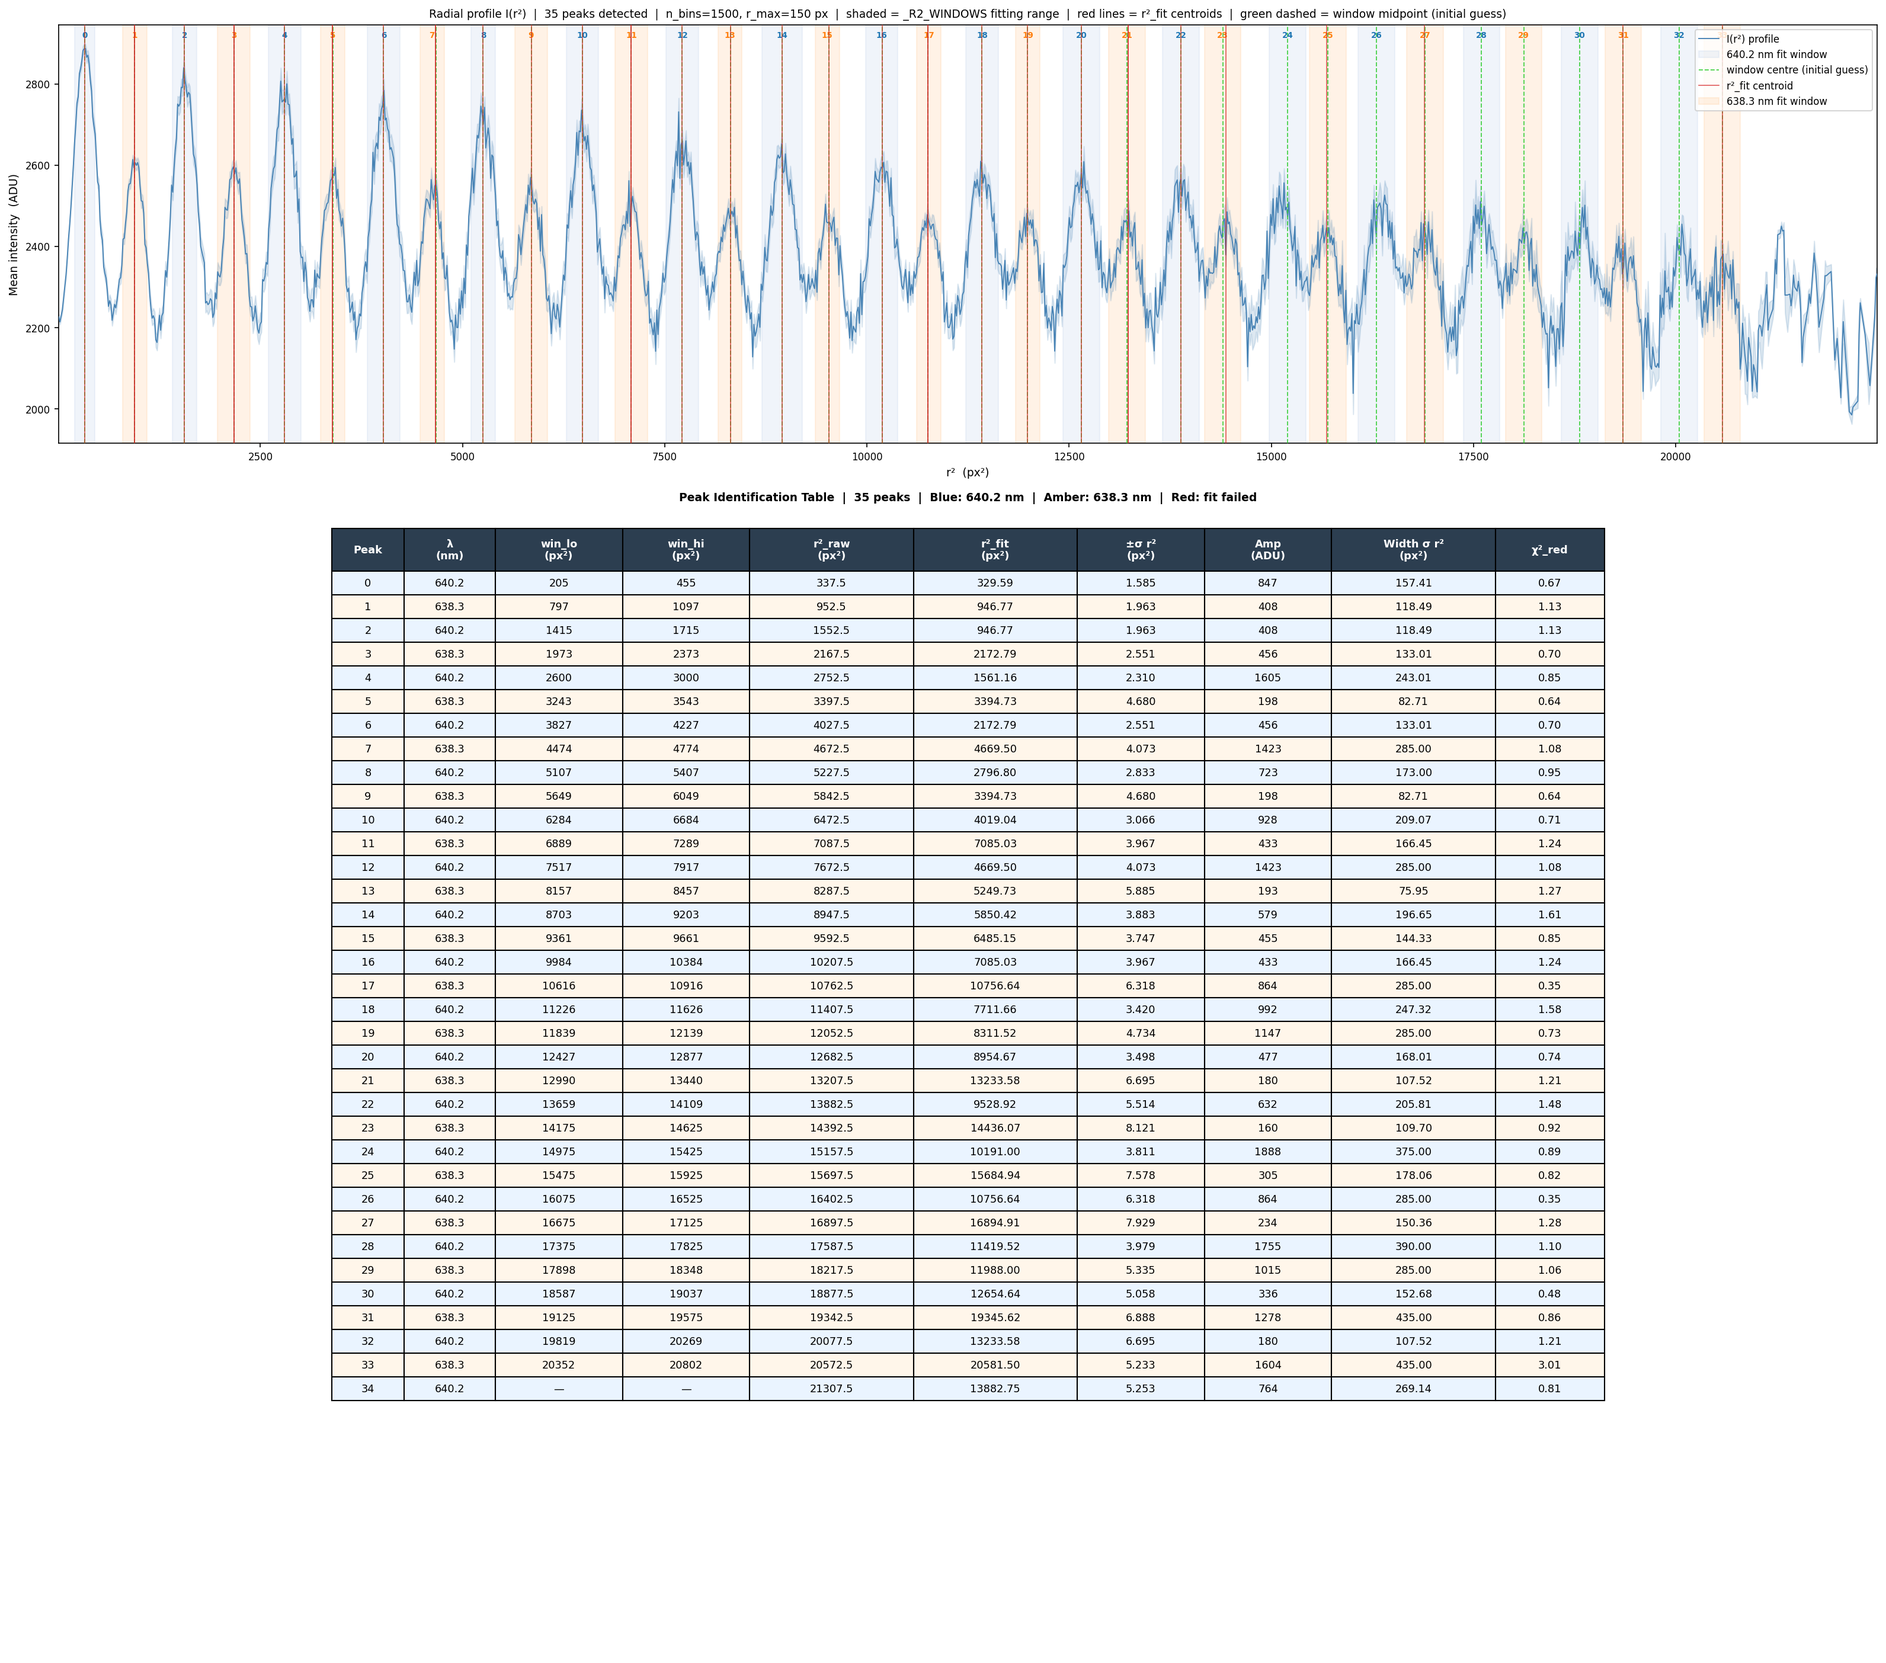
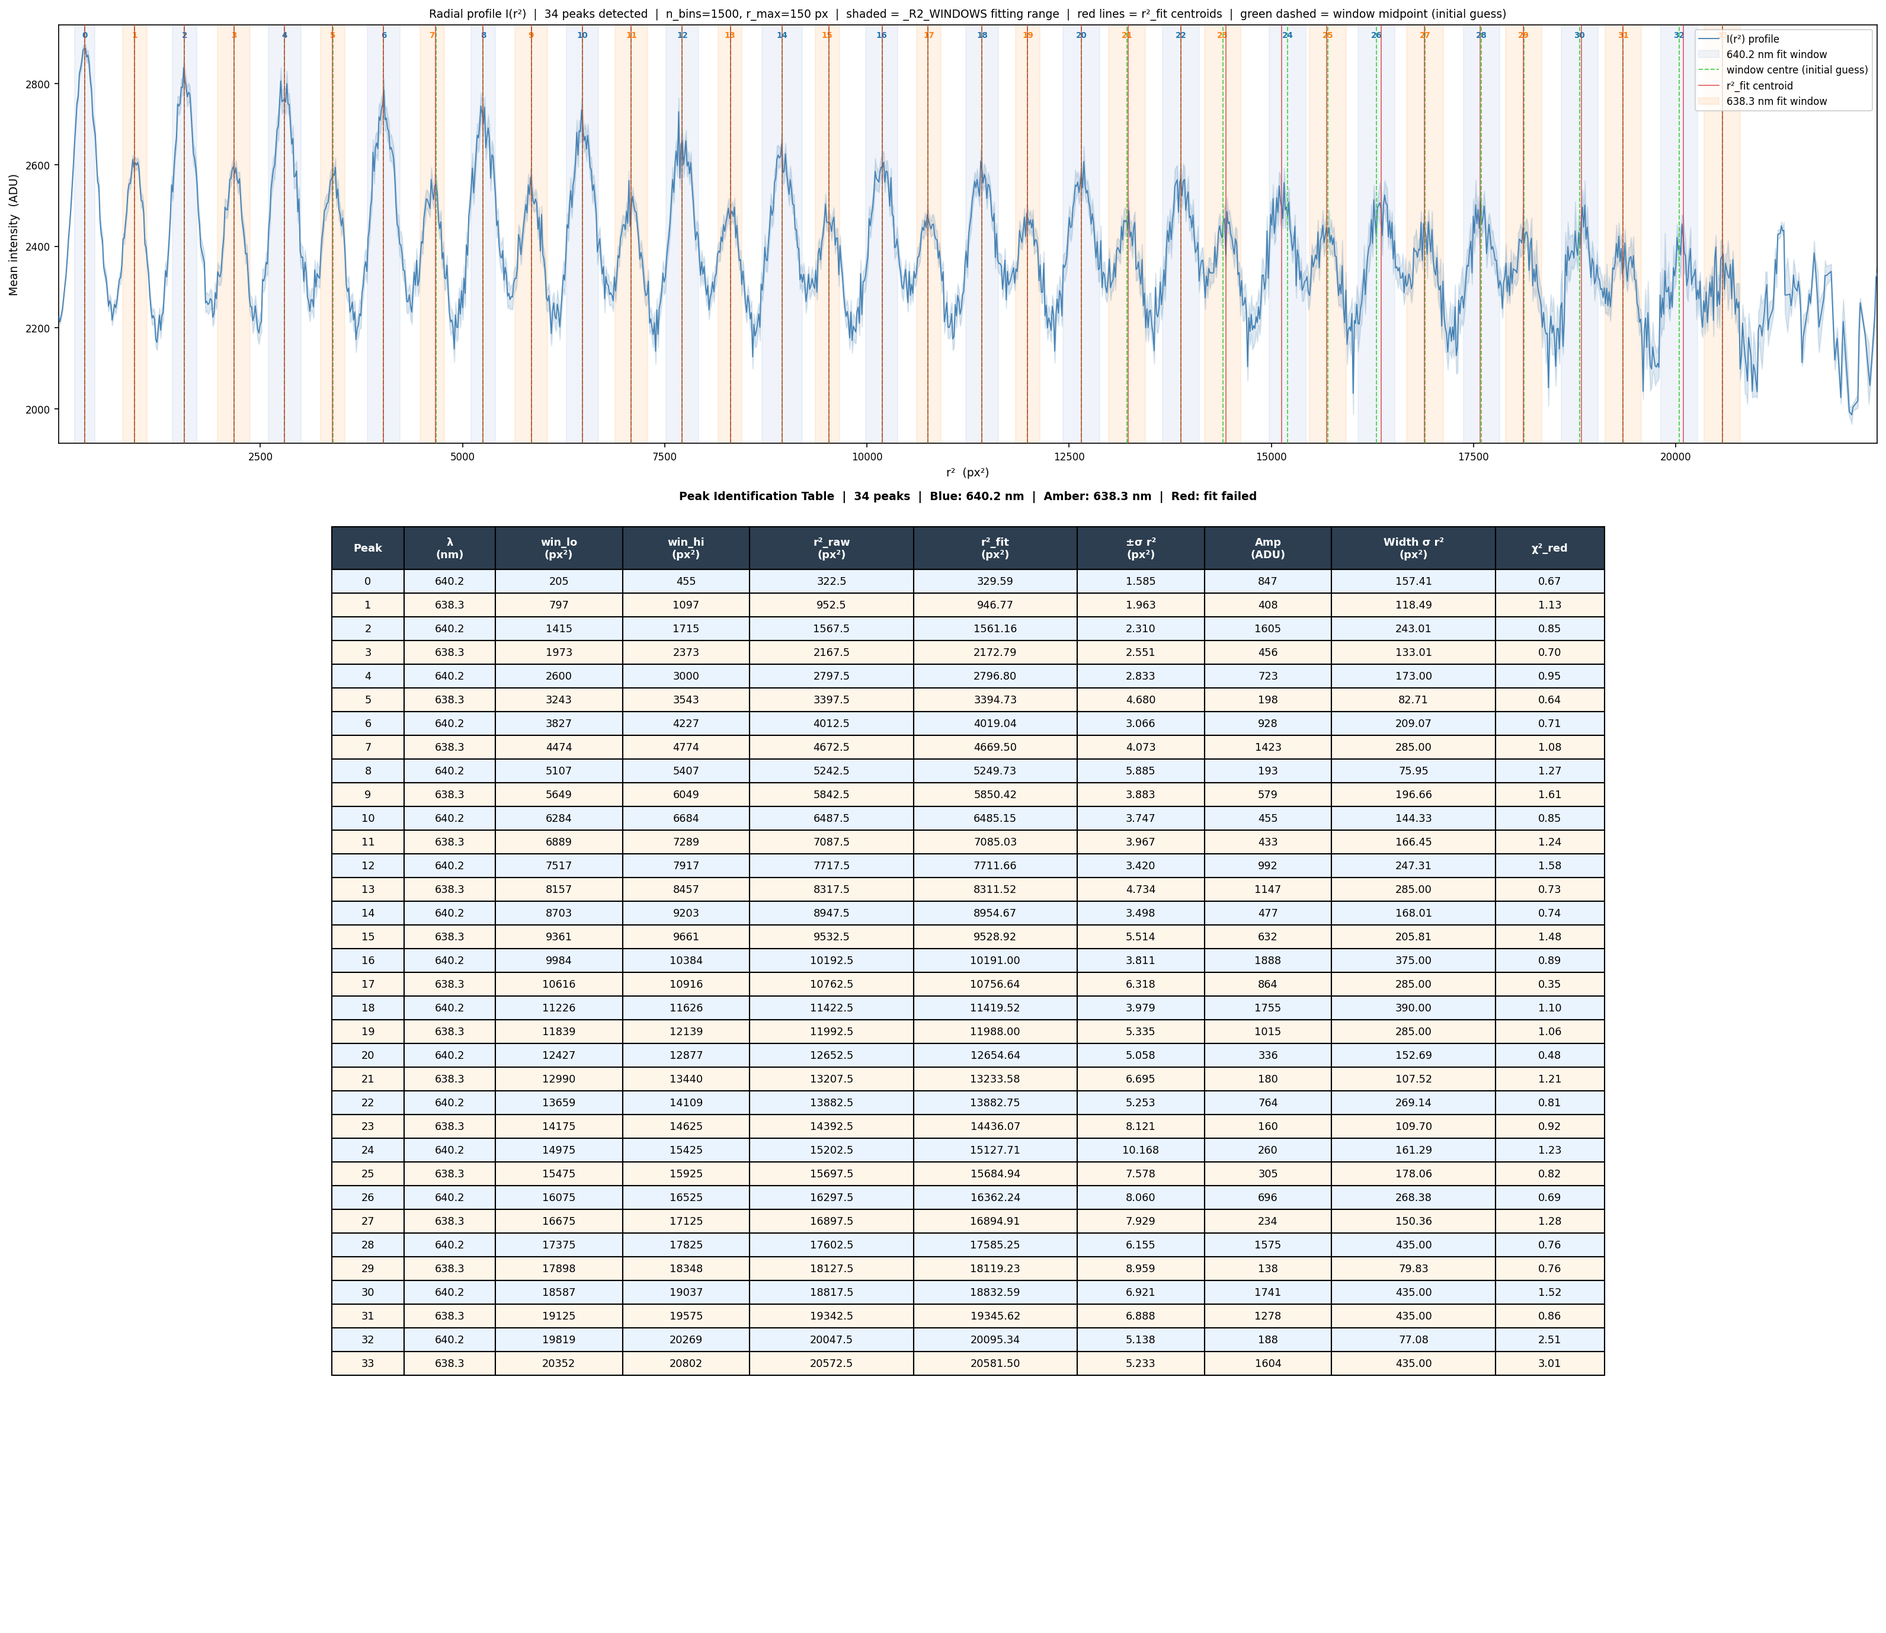
suppress subtitles

diff --git a/src/fpi/fpi_cal_lib.py b/src/fpi/fpi_cal_lib.py
@@ -1125,85 +1125,59 @@ def _find_and_fit_peaks(
 
 
 def _find_and_fit_peaks_r2(
-    r_grid:          np.ndarray,
-    r2_grid:         np.ndarray,
-    profile:         np.ndarray,
-    sigma_profile:   np.ndarray,
-    masked:          np.ndarray,
-    distance:        int   = 5,
-    prominence:      float = 100.0,
-    fit_half_window: int   = 6,
-    min_sep_px:      float = 3.0,
-) -> list[PeakFitR2]:
+    profile:        np.ndarray,
+    r_grid:         np.ndarray,
+    r2_grid:        np.ndarray,
+    sigma_profile:  np.ndarray,
+    masked:         np.ndarray,
+    distance:       int   = 5,
+    prominence:     float = 50.0,
+    fit_half_window: int  = 80,
+    min_sep_px:     float = 5.0,
+) -> list["PeakFitR2"]:
     """
-    Locate peaks in the radial profile and fit a Gaussian to each in r² space.
+    Fit every window defined in _R2_WINDOWS directly, using the 3-tuple
+    centre hint (or window midpoint) as the starting position.
 
-    Identical peak detection to _find_and_fit_peaks; differs only in the
-    fitting step, which uses r2_grid as the x-axis.  Fabry-Pérot fringes are
-    expected to be evenly spaced in r², so a Gaussian centroid in r² gives a
-    more physically motivated peak position for calibration.
-
-    Parameters mirror _find_and_fit_peaks.  min_sep_px is in pixels and is
-    converted to safe_distance bins via r_grid spacing.
+    The find_peaks auto-detection step has been removed entirely.  Every
+    entry in _R2_WINDOWS is attempted regardless of local prominence,
+    giving deterministic, user-controlled peak positions.
     """
-    good         = ~masked
-    good_indices = np.where(good)[0]
-    profile_good = profile[good]
-
-    if profile_good.size == 0:
+    if profile.size == 0:
         return []
 
-    # Safe distance from min_sep_px using r_grid (same as r-domain fitting)
-    if good_indices.size > 1:
-        median_dr_px = float(np.median(np.diff(r_grid[good])))
-        if median_dr_px > 0.0:
-            safe_distance = max(1, int(np.floor(min_sep_px / median_dr_px)))
-        else:
-            safe_distance = distance
-            median_dr_px  = 1.0
-    else:
-        safe_distance = distance
-        median_dr_px  = 1.0
-
-    # r² bin spacing for initial guess and bounds scaling
-    if good_indices.size > 1:
+    # r² bin spacing — used for Gaussian fit bounds
+    good = ~masked
+    if good.sum() > 1:
         median_dr2_px2 = float(np.median(np.diff(r2_grid[good])))
         if median_dr2_px2 <= 0.0:
             median_dr2_px2 = 1.0
     else:
         median_dr2_px2 = 1.0
 
-    effective_distance = min(distance, safe_distance)
-    peaks_sub, _ = find_peaks(profile_good, distance=effective_distance, prominence=prominence)
-    all_bin_indices = [int(good_indices[s]) for s in peaks_sub]
-
     results: list[PeakFitR2] = []
-    for peak_pos, (sub_idx, bin_idx) in enumerate(zip(peaks_sub, all_bin_indices)):
-        # HWHM-based asymmetric window
-        valley_L, valley_R = _find_valley_bounds(profile, bin_idx, search_hw=fit_half_window)
-        hwhm_L, hwhm_R    = _measure_hwhm(profile, bin_idx, valley_L, valley_R)
-        hw_L = min(max(6, int(np.round(0.8 * hwhm_L))), fit_half_window)
-        hw_R = min(max(6, int(np.round(0.8 * hwhm_R))), fit_half_window)
 
-        lo      = max(0, bin_idx - hw_L)
-        hi      = min(len(r2_grid) - 1, bin_idx + hw_R)
+    for win_key in sorted(_R2_WINDOWS.keys()):
+        _wk     = _R2_WINDOWS[win_key]
+        r2_lo   = _wk[0];  r2_hi = _wk[-1]
+        # Centre hint: middle of 3-tuple, or midpoint of 2-tuple
+        r2_ctr  = _wk[1] if len(_wk) == 3 else 0.5 * (r2_lo + r2_hi)
 
-        # ── User-specified window overrides (r² domain) ──────────────────────
-        if peak_pos in _R2_WINDOWS:
-            _wn = _R2_WINDOWS[peak_pos]; _r2_lo, _r2_hi = _wn[0], _wn[-1]
-            lo = int(np.searchsorted(r2_grid, _r2_lo, side="left"))
-            hi = int(np.searchsorted(r2_grid, _r2_hi, side="right")) - 1
-            lo = max(0, lo)
-            hi = min(len(r2_grid) - 1, hi)
-        # ── End user-specified overrides ──────────────────────────────────────
+        # Map r² bounds and centre to bin indices
+        lo      = int(np.searchsorted(r2_grid, r2_lo, side='left'))
+        hi      = int(np.searchsorted(r2_grid, r2_hi, side='right')) - 1
+        lo      = max(0, lo)
+        hi      = min(len(r2_grid) - 1, hi)
+        bin_idx = int(np.argmin(np.abs(r2_grid - r2_ctr)))
+        bin_idx = max(lo, min(hi, bin_idx))
 
         win     = np.arange(lo, hi + 1)
         usable  = ~masked[win] & np.isfinite(sigma_profile[win])
         win_use = win[usable]
 
-        # --- Parabolic primary fit ---
+        # ── Parabolic primary fit ─────────────────────────────────────────────
         para_ok    = False
-        para_mu    = float(r2_grid[bin_idx])   # fallback
+        para_mu    = float(r2_grid[bin_idx])
         para_rms   = np.nan
         para_resid = None
 
@@ -1222,7 +1196,7 @@ def _find_and_fit_peaks_r2(
                     coeffs     = np.polyfit(r2_w[mask_top], p_w[mask_top], 2)
                     para_resid = p_w[mask_top] - np.polyval(coeffs, r2_w[mask_top])
 
-        # --- Gaussian fallback ---
+        # ── Gaussian fallback ─────────────────────────────────────────────────
         gauss_ok         = False
         r2_fit_px2       = para_mu
         sigma_r2_fit_px2 = np.nan
@@ -1238,9 +1212,10 @@ def _find_and_fit_peaks_r2(
             B0   = float(np.percentile(p_w, 20))
             A0   = max(float(profile[bin_idx]) - B0, 1.0)
             mu0  = para_mu if para_ok else float(r2_grid[bin_idx])
-            sig0 = max((float(r2_w[-1]) - float(r2_w[0])) / 6.0, median_dr2_px2 * 0.5)
-            p0      = [A0, mu0, sig0, B0]
-            bounds  = (
+            sig0 = max((float(r2_w[-1]) - float(r2_w[0])) / 6.0,
+                       median_dr2_px2 * 0.5)
+            p0     = [A0, mu0, sig0, B0]
+            bounds = (
                 [0.0,    float(r2_w[0]),  0.3 * median_dr2_px2,    -np.inf],
                 [np.inf, float(r2_w[-1]), float(r2_w[-1]) - float(r2_w[0]), np.inf],
             )
@@ -1278,122 +1253,6 @@ def _find_and_fit_peaks_r2(
             width_r2_px2     = width_r2_px2,
             fit_ok           = fit_ok,
             reduced_chi2     = reduced_chi2,
-            para_ok          = para_ok,
-            para_rms         = para_rms,
-            gauss_ok         = gauss_ok,
-        ))
-
-    # ── Forced-fit pass: attempt a fit for every _R2_WINDOWS entry not
-    #    already covered by a find_peaks detection.  This ensures user-
-    #    specified windows (especially weak outer fringes below the global
-    #    prominence threshold) always get a fit attempt.
-    detected_positions = set(r.peak_idx for r in results)
-    already_fitted_windows = set(
-        wk for wk in range(len(results))
-        if wk in _R2_WINDOWS
-    )
-    for win_key in sorted(_R2_WINDOWS.keys()):
-        # Check if this window was covered by a detected peak
-        _wf    = _R2_WINDOWS[win_key]
-        _wf_lo = _wf[0];  _wf_hi = _wf[-1]
-        # Centre hint: 3-tuple middle value, else window midpoint
-        _wf_ctr = _wf[1] if len(_wf) == 3 else 0.5 * (_wf_lo + _wf_hi)
-
-        lo_f = int(np.searchsorted(r2_grid, _wf_lo, side="left"))
-        hi_f = int(np.searchsorted(r2_grid, _wf_hi, side="right")) - 1
-        lo_f = max(0, lo_f)
-        hi_f = min(len(r2_grid) - 1, hi_f)
-
-        # Skip if a detected peak already falls inside this window
-        window_covered = any(
-            lo_f <= r.peak_idx <= hi_f for r in results
-        )
-        if window_covered:
-            continue
-
-        # No detected peak in this window — force a fit using the centre hint
-        _ctr_idx = int(np.argmin(np.abs(r2_grid - _wf_ctr)))
-        bin_idx  = max(lo_f, min(hi_f, _ctr_idx))
-
-        win_f    = np.arange(lo_f, hi_f + 1)
-        usable_f = ~masked[win_f] & np.isfinite(sigma_profile[win_f])
-        win_use  = win_f[usable_f]
-
-        # --- Parabolic primary fit ---
-        para_ok    = False
-        para_mu    = float(r2_grid[bin_idx])
-        para_rms   = np.nan
-        para_resid = None
-
-        if win_use.size >= 4:
-            r2_w  = r2_grid[win_use]
-            p_w   = profile[win_use]
-            sem_w = sigma_profile[win_use]
-            para_mu_raw, para_rms = _parabolic_centroid(r2_w, p_w, top_fraction=0.5)
-            if r2_w[0] <= para_mu_raw <= r2_w[-1]:
-                para_mu = para_mu_raw
-                para_ok = True
-                threshold = np.min(p_w) + 0.5 * (np.max(p_w) - np.min(p_w))
-                mask_top  = p_w >= threshold
-                if mask_top.sum() >= 3:
-                    coeffs     = np.polyfit(r2_w[mask_top], p_w[mask_top], 2)
-                    para_resid = p_w[mask_top] - np.polyval(coeffs, r2_w[mask_top])
-
-        # --- Gaussian fallback ---
-        gauss_ok         = False
-        r2_fit_px2       = para_mu
-        sigma_r2_fit_px2 = np.nan
-        amplitude_adu    = float(profile[bin_idx])
-        width_r2_px2     = np.nan
-        reduced_chi2_f   = np.nan
-
-        if win_use.size >= 4:
-            r2_w  = r2_grid[win_use]
-            p_w   = profile[win_use]
-            sem_w = sigma_profile[win_use]
-            B0   = float(np.percentile(p_w, 20))
-            A0   = max(float(profile[bin_idx]) - B0, 1.0)
-            mu0  = para_mu if para_ok else float(r2_grid[bin_idx])
-            sig0 = max((float(r2_w[-1]) - float(r2_w[0])) / 6.0,
-                       median_dr2_px2 * 0.5)
-            p0     = [A0, mu0, sig0, B0]
-            bounds = (
-                [0.0,    float(r2_w[0]),  0.3 * median_dr2_px2,    -np.inf],
-                [np.inf, float(r2_w[-1]), float(r2_w[-1]) - float(r2_w[0]), np.inf],
-            )
-            try:
-                popt, pcov       = curve_fit(
-                    _gaussian, r2_w, p_w,
-                    p0=p0, sigma=sem_w, absolute_sigma=True,
-                    bounds=bounds, maxfev=5000,
-                )
-                perr             = np.sqrt(np.diag(pcov))
-                sigma_r2_fit_px2 = float(perr[1])
-                amplitude_adu    = float(popt[0])
-                width_r2_px2     = float(abs(popt[2]))
-                n_dof            = len(r2_w) - 4
-                if n_dof > 0:
-                    chi2_f         = float(np.sum(
-                        ((p_w - _gaussian(r2_w, *popt)) / sem_w) ** 2))
-                    reduced_chi2_f = chi2_f / n_dof
-                gauss_ok         = True
-                if not para_ok:
-                    r2_fit_px2   = float(popt[1])
-            except (RuntimeError, ValueError):
-                pass
-
-        fit_ok = para_ok or gauss_ok
-        results.append(PeakFitR2(
-            peak_idx         = bin_idx,
-            r2_raw_px2       = float(r2_grid[bin_idx]),
-            r_raw_px         = float(r_grid[bin_idx]),
-            profile_raw      = float(profile[bin_idx]),
-            r2_fit_px2       = r2_fit_px2,
-            sigma_r2_fit_px2 = sigma_r2_fit_px2,
-            amplitude_adu    = amplitude_adu,
-            width_r2_px2     = width_r2_px2,
-            fit_ok           = fit_ok,
-            reduced_chi2     = reduced_chi2_f,
             para_ok          = para_ok,
             para_rms         = para_rms,
             gauss_ok         = gauss_ok,
@@ -2051,30 +1910,16 @@ def _plot_all_fringe_diagnostics_r2(
                               alpha=0.75, edgecolor="gray"))
 
         # ── Title ────────────────────────────────────────────────────────────
-        # pk_num already set above from _R2_WINDOWS lookup
+        # pk_num set above — title shows peak number and wavelength only
         lam_str = "640.2" if pk_num % 2 == 0 else "638.3"
-        hw_str  = f"[{r2_lo_w:.0f},{r2_hi_w:.0f}]"
         if fit_ok:
-            r_derived = float(np.sqrt(r2_fit)) if r2_fit > 0 else float("nan")
-            chi2_str  = f"{reduced_chi2:.2f}" if np.isfinite(reduced_chi2) else "nan"
-            rms_str   = f"{para_rms:.2f}" if np.isfinite(para_rms) else "nan"
-            tag_para  = f"para ok rms={rms_str}" if para_ok else "para FAIL"
-            tag_gauss = "gauss ok" if gauss_ok else "gauss FAIL"
-            title = (
-                f"Peak {pk_num}  λ={lam_str} nm  hw={hw_str}\n"
-                f"r²={r2_fit:.1f}±{sigma_r2_fit:.1f}  r={r_derived:.3f}  χ²={chi2_str}\n"
-                f"{tag_para}  {tag_gauss}"
-            )
+            title       = f"Peak {pk_num}  λ={lam_str} nm"
             title_color = "#1a6e2e"
         else:
-            title = (
-                f"Peak {pk_num}  λ={lam_str} nm  hw={hw_str}  FAILED\n"
-                f"{'para ok' if para_ok else 'para FAIL'}  "
-                f"{'gauss ok' if gauss_ok else 'gauss FAIL'}"
-            )
+            title       = f"Peak {pk_num}  λ={lam_str} nm  FAILED"
             title_color = "#b22222"
 
-        ax.set_title(title, fontsize=7.5, color=title_color)
+        ax.set_title(title, fontsize=9.0, color=title_color)
         ax.tick_params(labelsize=6.5)
         ax.set_xlabel("r² [px²]", fontsize=7)
         ax.set_ylabel("ADU", fontsize=7)
@@ -2144,9 +1989,7 @@ def _plot_all_fringe_diagnostics_r2(
         fontsize=11, fontweight="bold", pad=12,
     )
     fig_tbl.tight_layout()
-    # Standalone peak table figure suppressed — all fit results are shown
-    # in figure2_peak_table() in run_windcube_calibration.py instead.
-    plt.close(fig_tbl)
+    plt.close(fig_tbl)  # standalone table suppressed; results in figure2_peak_table()
 
 
 def _print_peak_table(peak_fits: list[PeakFit]) -> None:

diff --git a/src/processing/run_windcube_calibration.py b/src/processing/run_windcube_calibration.py
@@ -170,7 +170,7 @@ _R2_WINDOWS.update({
      4: (    2600, 2797,   3000),   # P4  640.2 nm
      5: (    3243, 3395,   3543),   # P5  638.3 nm
      6: (    3827, 4019,   4227),   # P6  640.2 nm
-     7: (    4474, 4670,   4774),   # P7  638.3 nm
+     7: (    4474, 4670,   4784),   # P7  638.3 nm  [right +10]
      8: (    5107, 5250,   5407),   # P8  640.2 nm
      9: (    5649, 5850,   6049),   # P9  638.3 nm
     10: (    6284, 6485,   6684),   # P10 640.2 nm
@@ -1306,14 +1306,7 @@ def main() -> None:
                       save_path=_fig3a_path)
     print(f"  Saved : {_fig3a_path}  ({len(inner_peaks)} inner peaks P0-P{_INNER_MAX-1})")
 
-    if outer_peaks:
-        _fig3b_path = output_dir / "3b_cal_peak_fit_diagnostics_outer.png"
-        _outer_offset = min((_window_key(p) for p in outer_peaks), default=_INNER_MAX)
-        _plot_peak_subset(fp, outer_peaks, fit_half_window=200, n_cols=4,
-                          save_path=_fig3b_path, peak_offset=_outer_offset)
-        print(f"  Saved : {_fig3b_path}  ({len(outer_peaks)} outer peaks P{_INNER_MAX}+)")
-    else:
-        print("  No outer peaks (P20+) — check PEAK_PROMINENCE and _R2_WINDOWS.")
+    # Figure 3b (outer fringe diagnostics) suppressed — no longer needed.
 
 
     # -- Step 7: Tolansky two-line analysis ----------------------------------
